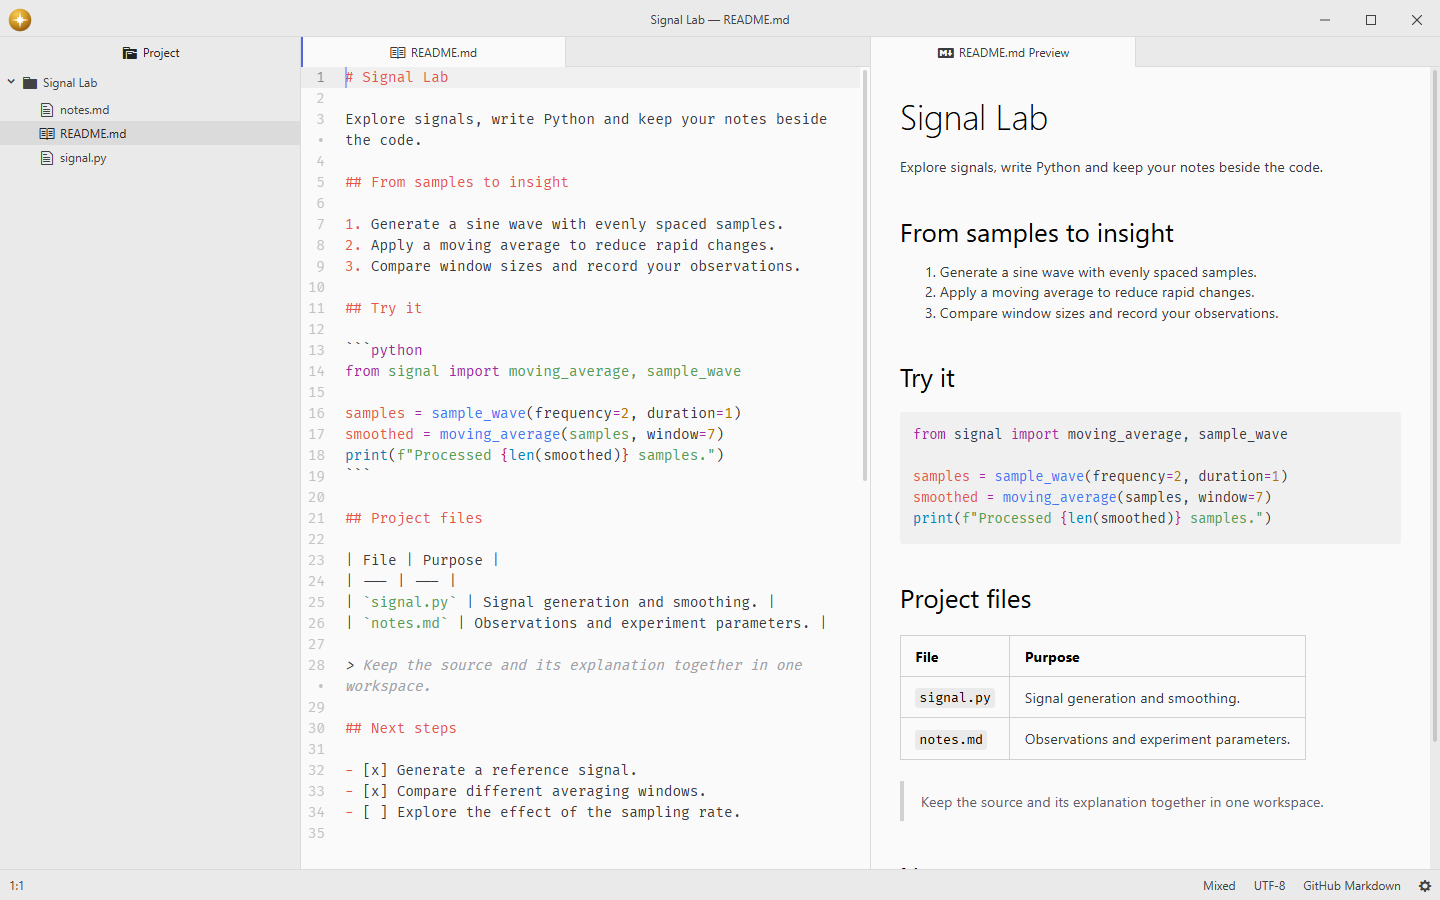
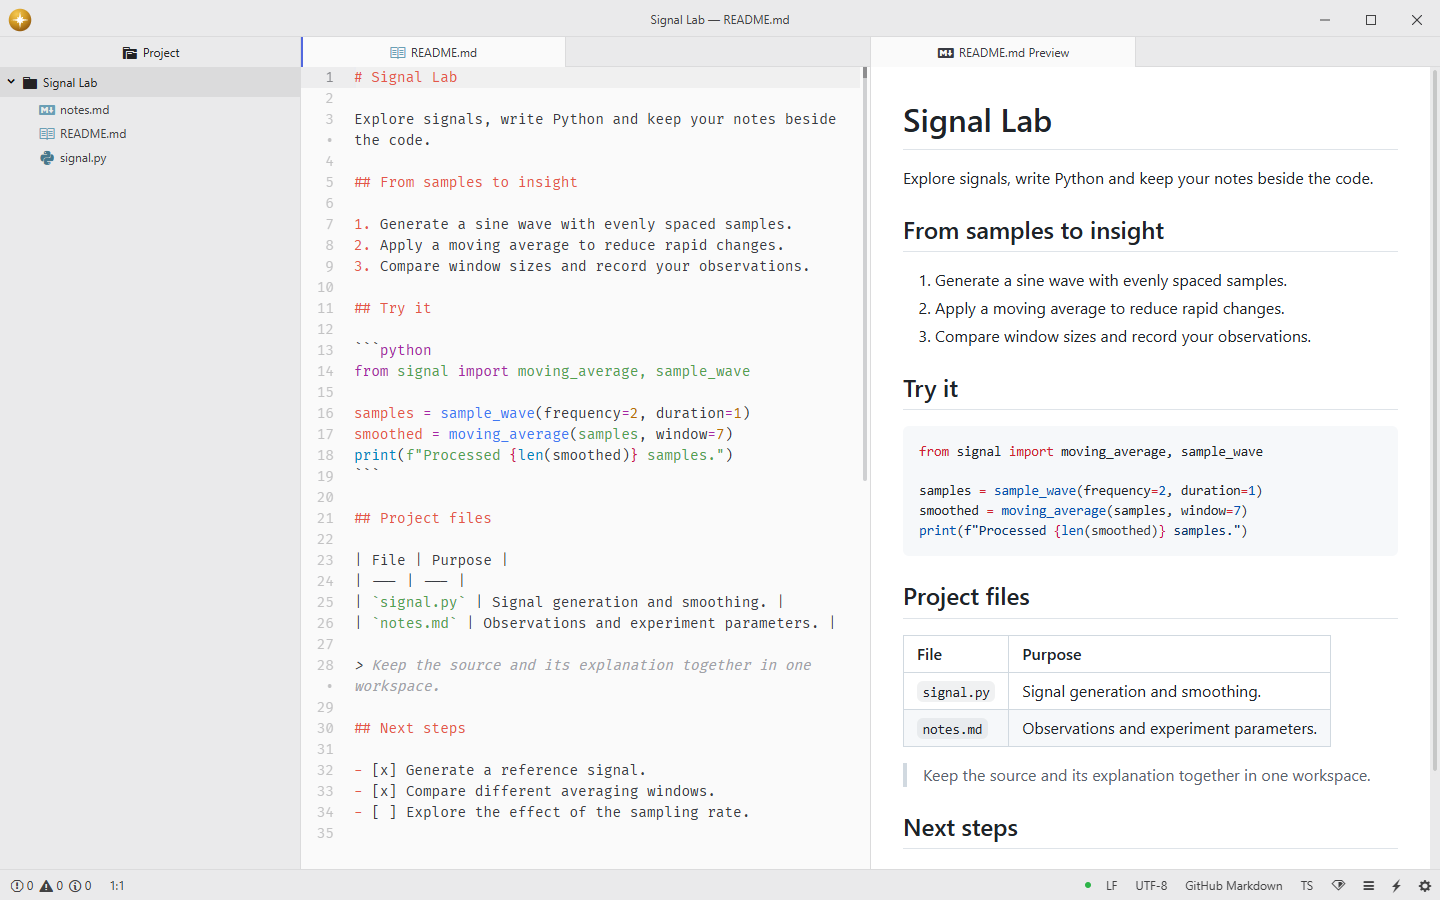
Refresh the Markdown gallery with current GitHub preview styles

diff --git a/script/gallery-art.js b/script/gallery-art.js
@@ -48,7 +48,7 @@ module.exports = function galleryAssets(root) {
         <path d="M64 0V${ROW_HEIGHT}" stroke="${palette.gold}" stroke-opacity="0.5"/>
         <g font-family="Segoe UI, sans-serif" fill="${palette.ink}">${panel}</g>
         <text x="96" y="1072" font-family="Consolas, monospace" font-size="16" fill="${palette.muted}">LUMINE / EDITOR</text>
-        <text x="1504" y="1072" text-anchor="end" font-family="Consolas, monospace" font-size="16" fill="${palette.muted}">CAPTURED ${escapeXml(manifest.capturedOn)}</text>
+        <text x="1504" y="1072" text-anchor="end" font-family="Consolas, monospace" font-size="16" fill="${palette.muted}">CAPTURED ${escapeXml(scene.capturedOn || manifest.capturedOn)}</text>
       </svg>`,
       };
     }),
